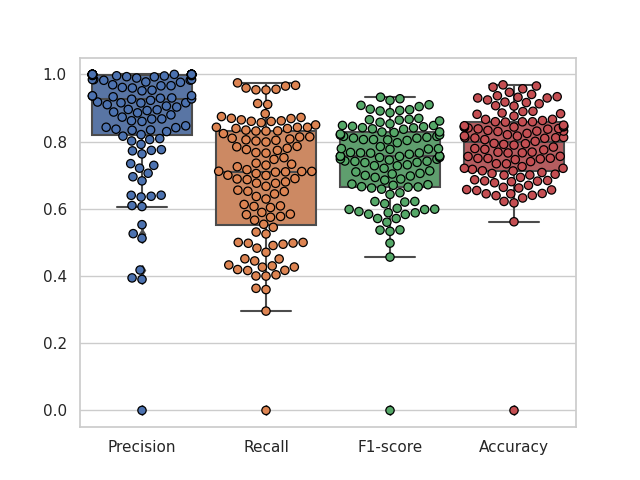
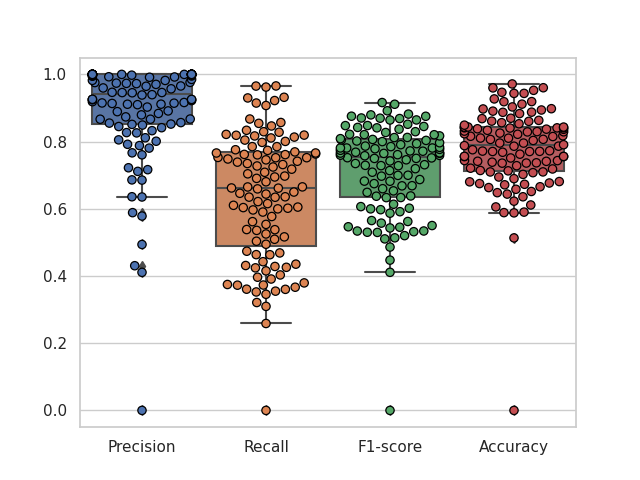
Real time engine

Changed region(s): [[0.125, 0.125, 0.9062, 0.6875]]

diff --git a/Prototype/core/test_activity_detection.py b/Prototype/core/test_activity_detection.py
@@ -72,7 +72,6 @@ def all_dataset_test(buffer_size = 512):
             for f in files:
                 if f.endswith('.wav') and os.path.isfile(startpath+folder+f.split('.')[0]+'.csv'):
                     wav_dir = startpath+folder+f
-                    print(wav_dir)
                     csv_dir = startpath+folder+f.split('.')[0]+'.csv'
                     run_test(wav_dir,csv_dir,buffer_size,log_file)
 
@@ -104,7 +103,7 @@ def buffer_size_test(buffer_sizes):
 
 buffer_sizes = [128, 256, 512, 1024, 2048, 4096]
 # buffer_size_test(buffer_sizes)
-# all_dataset_test()
+all_dataset_test()
 generate_plots(buffer_sizes)
 # run_test('../../RawDataset/SOF/SofI2.wav,','../../RawDataset/SOF/SofI2.wav,',512)
 

diff --git a/Prototype/core/utils/gui.py b/Prototype/core/utils/gui.py
@@ -92,11 +92,12 @@ def plot_odf(name,signal,signal_proc,sr,onsets,hfc,th):
     # hfc_smooth = spl(x_new)
     # plot_c.plot(x_new,hfc_smooth,color="b")
 
-    plot_c.plot(hfc_time,hfc,color="b")
-    plot_c.plot(th_time,th,color="r")
+    plot_c.plot(hfc_time,hfc,color="b", label="ODF")
+    plot_c.plot(th_time,th,color="r",label="Threshold")
     plot_c.set_xlabel('Time')
     plot_c.set_ylabel('HFC')
-    
+    plot_c.legend()
+
     plot_d= plt.subplot(313)
     plot_d.plot(onsets_time,onsets,color="r")
     plot_d.set_xlabel('Time')

diff --git a/Prototype/core/run.py b/Prototype/core/run.py
@@ -9,7 +9,7 @@ import pickle
 filename = './app/finalized_model.sav'
 knn_model = pickle.load(open(filename, 'rb'))
 
-path = '../../RawDataset/RIC/RicI2'
+path = '../../RawDataset/LML_1617020140983/Kick_LML'
 
 audio = Waveform(path=path+".wav")
 groundtruth = load_groundtruth(path+".csv")

diff --git a/Prototype/core/interfaces/pre_processing.py b/Prototype/core/interfaces/pre_processing.py
@@ -52,6 +52,5 @@ def pre_processing(signal,fs):
     lp_filter = scipy_signal.butter(1, lp_fc, 'lp', fs=fs,output='sos')
     lp_filtered_signal = scipy_signal.sosfilt(lp_filter, np.abs(hp_filtered_signal))
 
-
     
-    return hp_filtered_signal.real
+    return denoised_signal.real
